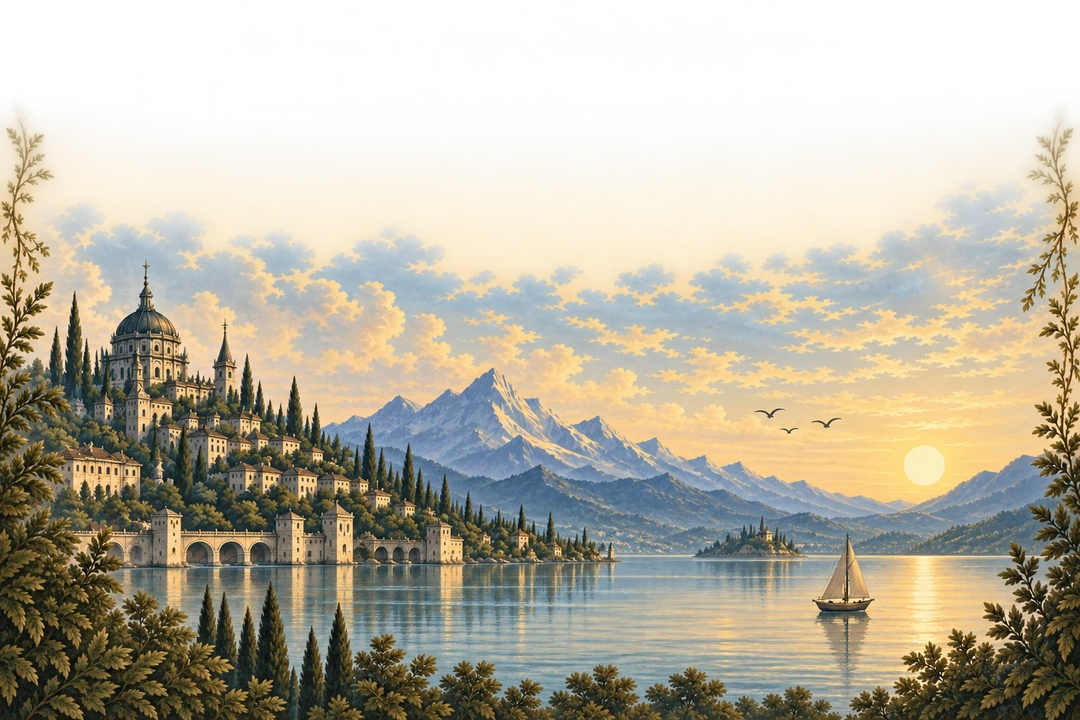
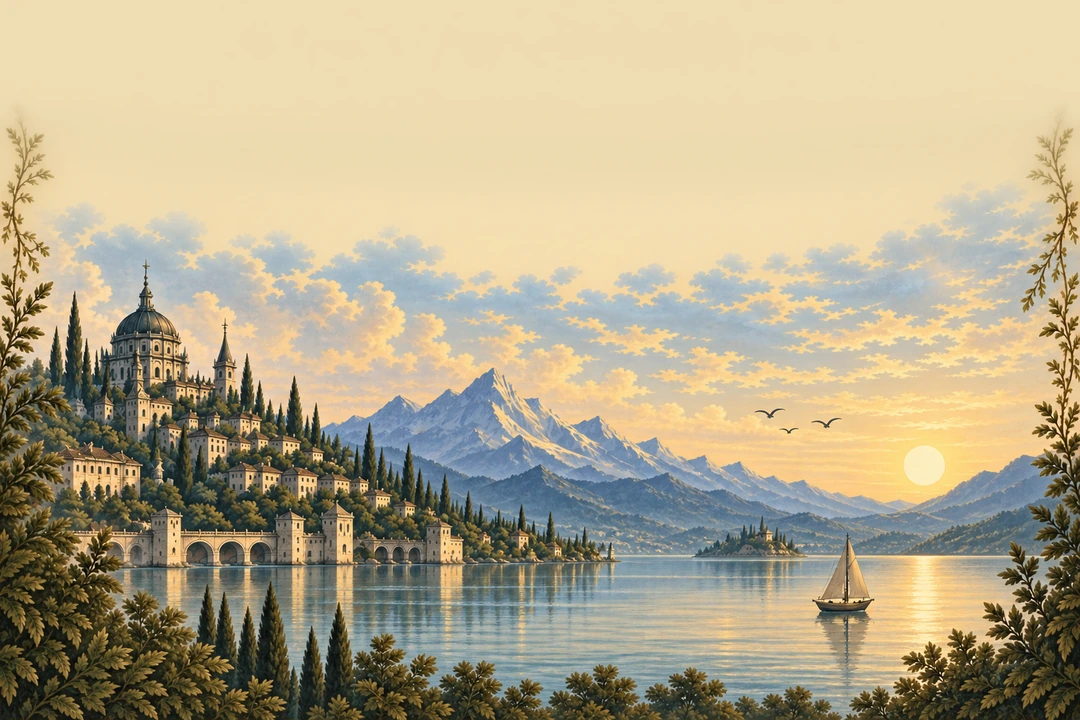
Flatten the drawer cities onto the rail, and record §32 as done
§32.2 had already learned this on the night pair and it applies unchanged to
the new one: the city's alpha ramp only ever composites over a single flat
panel colour, so flattening onto it is identical on screen, removes any
chance of a half-transparent pixel landing lighter than the panel, and
compresses far better -- day 326 KB to 184, night 235 to 168.

Handoff §32 said the split was decided and unexecuted; it is executed, so the
section says so. Its measured-gap table and the "SAGA-01 is baked into every
project's drawer" warning are history -- neither header bakes a project name
now. New §32.6 records what conditioning the supplied plates needed and why
each number is what it is, including the getchannel('A')-returns-a-copy trap
that made a whole round of ramp variants come back identical.

diff --git a/scripts/build-drawer-plates.py b/scripts/build-drawer-plates.py
@@ -19,9 +19,10 @@ Three transforms, each fixing something the generator does that the app cannot u
    parchment bottom edge -- which is then sampled for the panel colour, so the picture stops
    and the rail starts with nothing drawn over the join.
 
-2. CITIES keep their alpha ramp but have the dead RGB under it replaced. The generator leaves
-   fully transparent pixels black; LANCZOS does not know they are invisible and drags that
-   black up into the visible part of the ramp as a dirty edge.
+2. CITIES have the dead RGB under their alpha ramp replaced, then are flattened onto the rail.
+   The generator leaves fully transparent pixels black; LANCZOS does not know they are
+   invisible and drags that black up into the visible part of the ramp as a dirty edge. The
+   flattening is what §32.2 already learned on the night pair -- see RAIL below.
 
 3. The NIGHT city's ramp is rebuilt long and eased. It is a dark scene dissolving into cream
    paper, so partial alpha composites to grey no matter what -- a short ramp shows that as a
@@ -35,6 +36,14 @@ from PIL import Image
 
 SRC = 'assets'
 OUT = 'mobile/assets'
+
+# The rail each mode's panel is painted with -- sampled from that mode's own header by
+# build_header() below, and the value theme.ts carries. The cities are FLATTENED onto it
+# rather than shipped with alpha: the ramp only ever composites over this one flat colour,
+# so the result is identical on screen, no half-transparent pixel can land lighter than the
+# panel the way §32.2 found, and an opaque WEBP compresses far better than one carrying an
+# alpha channel.
+RAIL = {'day': (0xef, 0xdc, 0xb2), 'night': (0xef, 0xdb, 0xb4)}
 
 # Measured, not chosen: the last row of both header plates where the parchment is still
 # fully opaque and clean. Both plates are 1586x992 and share the crop, so day and night have
@@ -103,8 +112,10 @@ def build_city(mode, src, ramp=None):
                 px[x, y] = (sr, sg, sb, px[x, y][3])
 
     im = im.resize(CITY_SIZE, Image.LANCZOS)
+    flat = Image.new('RGB', CITY_SIZE, RAIL[mode])
+    flat.paste(im, (0, 0), im)
     path = f'{OUT}/drawer-{mode}-city.webp'
-    im.save(path, 'WEBP', quality=92, method=6)
+    flat.save(path, 'WEBP', quality=92, method=6)
     print(f'{path}  {CITY_SIZE}  {os.path.getsize(path) // 1024} KB')
 
 

diff --git a/STORYMAP_CODEBASE_HANDOFF.md b/STORYMAP_CODEBASE_HANDOFF.md
@@ -4431,26 +4431,35 @@ UI does not call -- deletions go through `trashStore`. It stays online-only deli
 queueing a destructive op is a different risk from queueing a constructive one.
 
 
-## 32. THE DRAWER AS ARTWORK (2026-08-30) — night done, day mid-flight
+## 32. THE DRAWER AS ARTWORK (2026-08-30, completed 2026-09-05)
 
-The nav drawer is now largely supplied artwork with live text printed into gaps left for it.
-Night works. Day is half-built and the next step is a decision that has already been made but
-not executed — read §32.4 before touching anything here.
+The nav drawer is largely supplied artwork with live text printed into gaps left for it.
+
+**§32.4's decision is executed.** Day is no longer one full-height plate: both modes are the
+same two plates — a header in the scroll flow, a city pinned to the foot — and differ only in
+which files they name and whether a sun or a crescent sits over the compass rose. The fixed
+scroll window, the screen-fraction title band and the 15% vine inset all went with the plate
+that needed them; §32.3's table is history and `PLATE` no longer exists. §32.4 is kept below
+because its reasoning is why the split happened, and §32.6 records what conditioning the new
+plates needed.
 
 ### 32.1 What the drawer is made of
 
 **Night (working).** Two plates, each anchored to its own edge, with the panel's parchment
 between them:
 
-- `mobile/assets/drawer-header.webp` — 1080x675, corner flourishes, compass rose, moon phases,
-  **"SAGA-01" and "STORYMAP" both baked in**, and the rule beneath. In the scroll flow, so it
-  scrolls away as the menu grows.
-- `mobile/assets/drawer-city.webp` — 1080x720, the illustrated city. **Pinned to the bottom
-  edge**, drawn before the menu, so no scroll position can reveal cream beneath it.
+- `drawer-{day,night}-header.webp` — 1080x531, corner flourishes, vines, compass rose, the
+  celestial mark (sunburst by day, crescent by night), STORYMAP and the rule beneath, then a
+  clear band. In the scroll flow, so it scrolls away as the menu grows. **No project name is
+  baked in** — the clear band is where the live title is printed, which is what retired the
+  "SAGA-01 on every project's drawer" problem §32.5 used to warn about.
+- `drawer-{day,night}-city.webp` — 1080x720, the illustrated city (sunset by day, moonlit by
+  night). **Pinned to the bottom edge**, drawn before the menu, so no scroll position can
+  reveal cream beneath it.
 
-**Day (incomplete).** One full-height plate, `drawer-day.webp` (748x2103, 1:2.81), carrying
-everything: frame, vines down both edges, rose, STORYMAP, rule and the city. Live text is
-positioned into two measured gaps.
+The four are built from the supplied plates in `assets/{day,night}plate_{top,bottom}.png` by
+`scripts/build-drawer-plates.py` — see §32.6. The superseded `drawer-day.webp`,
+`drawer-header.webp` and `drawer-city.webp` are deleted.
 
 **Drawn in code, both modes**: the section rows (glyph, label, rule, chevron) and the
 quotation box. Deliberately: a row's parts must be laid out together or they misalign on some
@@ -4459,8 +4468,11 @@ other screen size, and the box has to move when a section expands.
 ### 32.2 Colours are SAMPLED, never chosen
 
 Every panel colour comes out of the artwork with Pillow, because the drawer *is* the plate and
-any independently chosen value shows up as a seam. Night's rail is `#e7d8ba`; day's is
-`#f2e1bd`, its own menu-band parchment.
+any independently chosen value shows up as a seam. Since the split both rails are that mode's
+header plate's own flat bottom edge — day `#efdcb2`, night `#efdbb4` — and
+`build-drawer-plates.py` prints both every time it runs, so the values in `theme.ts` are
+transcribed rather than picked. Day's olive rail went with the plate it belonged to; the two
+drawers are one object at two hours now, not two objects.
 
 **The tan line, and why matching the panel was not enough.** Inside the header's own alpha fade
 its RGB drifts LIGHTER than the panel -- `#eadfc2` to `#efe6d2` against `#e7d8ba` -- so a
@@ -4487,7 +4499,7 @@ rows, not by eye. As fractions of panel height:
 `PLATE` in `NavDrawer.tsx` holds these. A title nearly in its gap looks worse than one
 obviously somewhere else, which is why they were measured.
 
-### 32.4 THE DECISION FOR THE NEXT SESSION: split the day plate
+### 32.4 The decision to split the day plate (made 2026-08-30, executed 2026-09-05)
 
 Five faults were found on a real device. Three were code and are fixed; two are the artwork's
 and are NOT:
@@ -4503,28 +4515,62 @@ the full height (so it squeezes the menu into ~70% of an already narrow panel), 
 while the menu moves. **Split into a header and a foot, as night already is, none of those
 exist** — and the machinery is already written and working.
 
-Agreed direction, not yet executed:
+What was agreed, and what was actually built — the sizes moved, the shape did not:
 
-- **Header, 1080x675** — corner frame, vines descending from the top corners and thinning out,
-  sunburst and rose, a clear gap for the title, STORYMAP, the rule. Bottom ~12% fading out.
-- **Foot, 1080x720** — the city running hard off left, right and bottom; top ~25% fading into
-  parchment plus a radial falloff at the upper-right, exactly as night's foot already does.
-- Panel between them: flat parchment sampled from the pieces, and the menu gets the full width.
+- **Header** — built at 1080x531, not 1080x675: the plates arrived with a ragged torn-paper
+  fade at the foot and are cropped above it, so the shipped ratio is the crop's, 2.034:1.
+  The clear gap for the title ended up *below* the rule rather than above STORYMAP, because
+  that is where the supplied art left room; it is the bottom 21.8% of the image.
+- **Foot, 1080x720** — as agreed. Day's own ramp is long enough as supplied; night's had to be
+  rebuilt (§32.6).
+- Panel between them: flat parchment sampled from the pieces, and the menu gets the full width
+  — `VINE_INSET` is gone, and only the title still insets, to clear the header's own vines.
 
 **The cost, stated:** the vine border stops being continuous. Night has never had one and reads
-correctly, so this is judged worth it.
+correctly, so this was judged worth it — and on the built version it is barely legible as a
+cost, because the menu band is short enough that the header's vines and the city's read as one
+frame interrupted rather than as two unrelated borders.
 
-**Also still outstanding**: the night plate is still 1:2 and would lose 220px off each side if
-ever used full-height (it is not — it is split, which is precisely the point). The three
-section icons at 96x96 transparent have not been supplied, so day's rows use drawn
-approximations against detailed artwork. And `drawer-day.webp` is 748px wide against a ~920px
-slot, which is why the baked "SAGA-01" reads soft while the live title beside it is sharp --
-regenerate at 1200 wide.
+**Still outstanding**: the three section icons at 96x96 transparent have not been supplied, so
+both modes' rows use drawn approximations against detailed artwork. The resolution complaint
+is settled — the new plates are 1586px wide at source and ship at 1080, so nothing baked reads
+soft any more.
 
 ### 32.5 Two things not to undo
 
-**"SAGA-01" is baked into the night header.** Every project's drawer will read SAGA-01. Fine
-for one project; it needs the title band left clear when that changes.
+**~~"SAGA-01" is baked into the night header.~~** Resolved by the split: neither header bakes a
+project name, and both leave the band clear for the live title. The warning is kept because it
+is the reason to check any *future* plate for baked text before accepting it.
 
 **The quotation box was deliberately removed from the day plate** and is drawn in code. It has
 to be: it is the element that moves when a section expands.
+
+### 32.6 Conditioning the supplied plates (2026-09-05)
+
+`scripts/build-drawer-plates.py` turns the four source PNGs into the four shipped WEBPs. It
+exists because the generator returns three things the app cannot use directly, and each fix is
+measured rather than judged:
+
+**Headers are cropped to their last clean opaque row (780 of 992).** Both plates end in a
+ragged torn-paper alpha fade, and the day plate came back *flattened onto its own
+checkerboard*, so every row inside its fade is contaminated grey — reconstructing that alpha
+was not worth attempting. Cropping discards both problems at once and leaves a flat parchment
+bottom edge, which is then what the rail is sampled from. Day and night share the crop, so
+their geometry is identical and the title band lands in the same place in each.
+
+**Cities have the dead RGB under their ramp replaced, then are flattened onto the rail.**
+Transparent pixels come back black; LANCZOS does not know they are invisible and drags that
+black up into the visible ramp as a dirty edge. Flattening is §32.2's existing finding applied
+to the new pair — the ramp only ever composites over one flat colour, so it is identical on
+screen and much smaller: day 326 KB to 184, night 235 to 168.
+
+**The night city's ramp is rebuilt long and eased, over 45% of its height on a smootherstep.**
+A dark scene dissolving into cream paper composites to grey no matter what the curve is; the
+only lever is how far that grey is spread. Short, it is a distinct band of haze lying *across*
+the picture. Spread, the same pixels read as atmosphere *above* the clouds. 28% still banded
+and 60% washed the cloud detail out, so 45% is the middle that was chosen by looking at all
+three. Day needs none of this — its sky is pale and its supplied ramp already runs 44% down.
+
+**The trap that cost a pass**: `Image.getchannel('A')` returns a COPY. Editing what its
+`load()` hands back changes nothing, and the ramp variants all came out identical and looked
+like the fade was somehow immune to the curve. `putalpha` it back.
